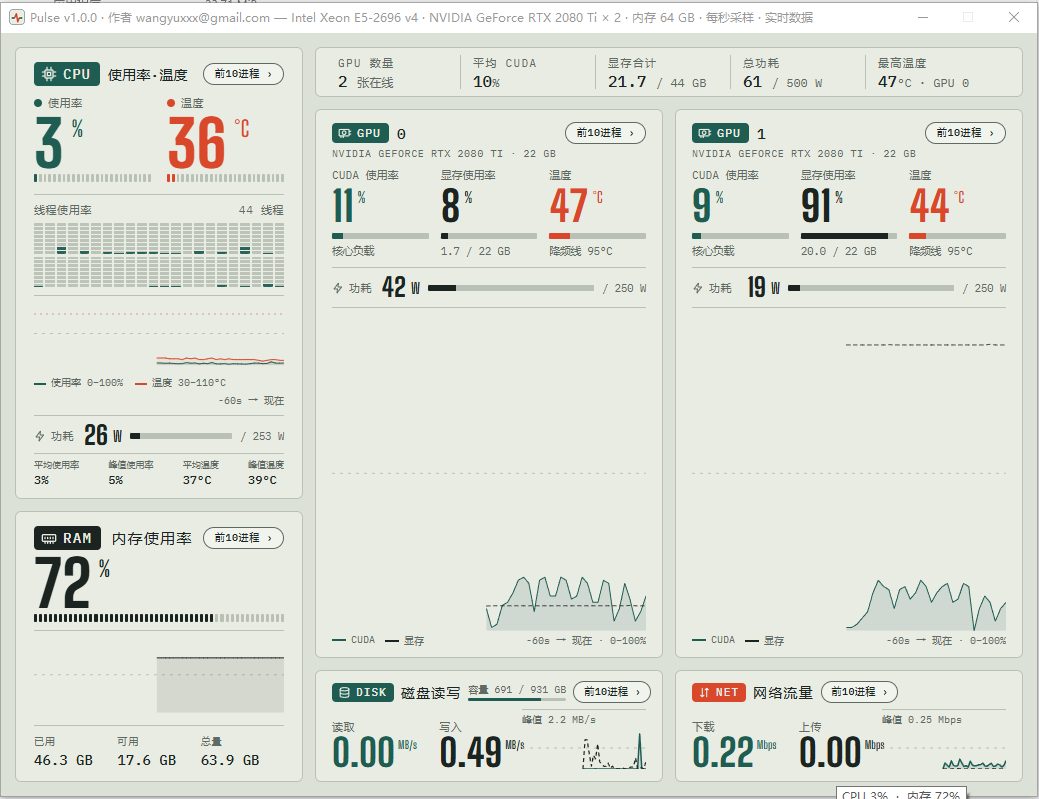
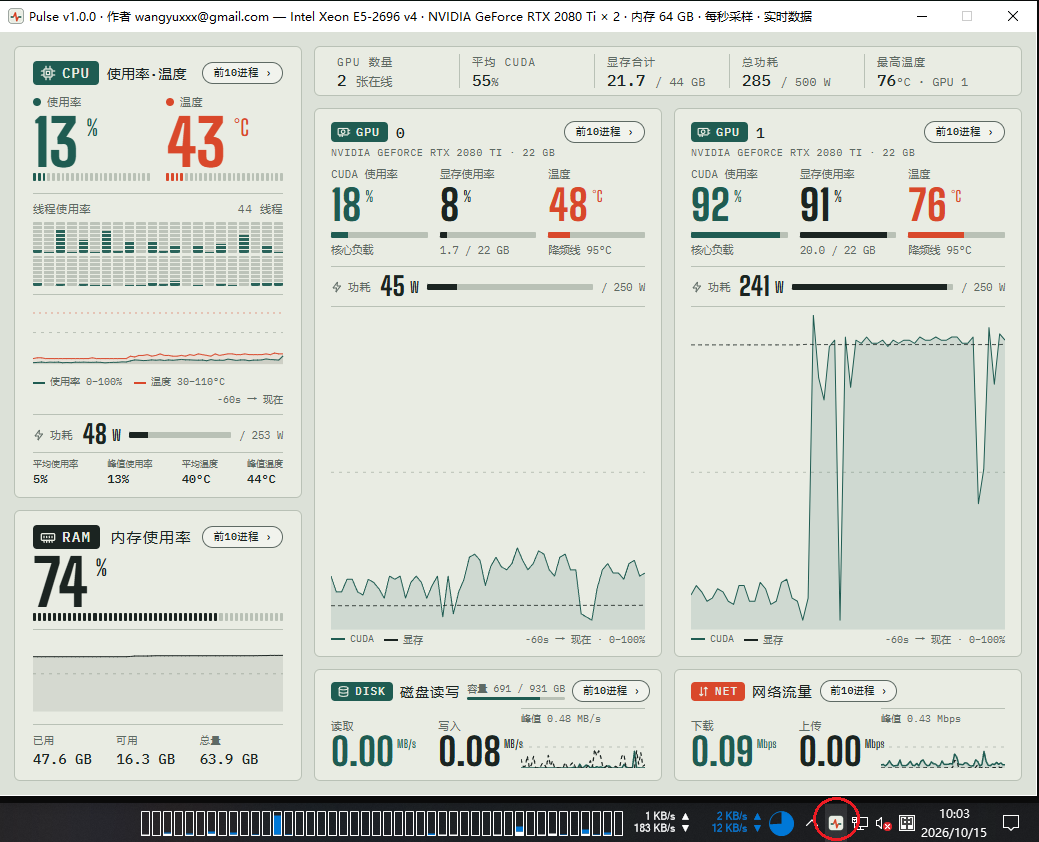
更新界面截图: 带上任务栏, 红圈标出托盘图标
截图换成整屏那张, 多出来的任务栏正好能看出托盘图标在哪 (红圈), 配合"鼠标移过去就弹出"。
两份 README 的 alt 描述跟着补上这一段。

diff --git a/README.en.md b/README.en.md
@@ -15,7 +15,7 @@ rendered by pywebview, and Pulse **lives in the system tray: move the mouse over
 the window pops up, move it away and the window hides** — checking on the machine never means
 switching windows.
 
-![Pulse UI: CPU utilization / temperature / per-thread bars / chart on the left; one column per GPU on the right (CUDA, VRAM, temperature, power); a summary row across the top; disk and network throughput at the bottom](pictures/pulse-ui.png)
+![Pulse UI: CPU utilization / temperature / per-thread bars / chart on the left; one column per GPU on the right (CUDA, VRAM, temperature, power); a summary row across the top; disk and network throughput at the bottom; along the very bottom, the taskbar with the tray icon circled in red — hover there and the window pops up](pictures/pulse-ui.png)
 
 *(The app's interface text is Chinese.)*
 
